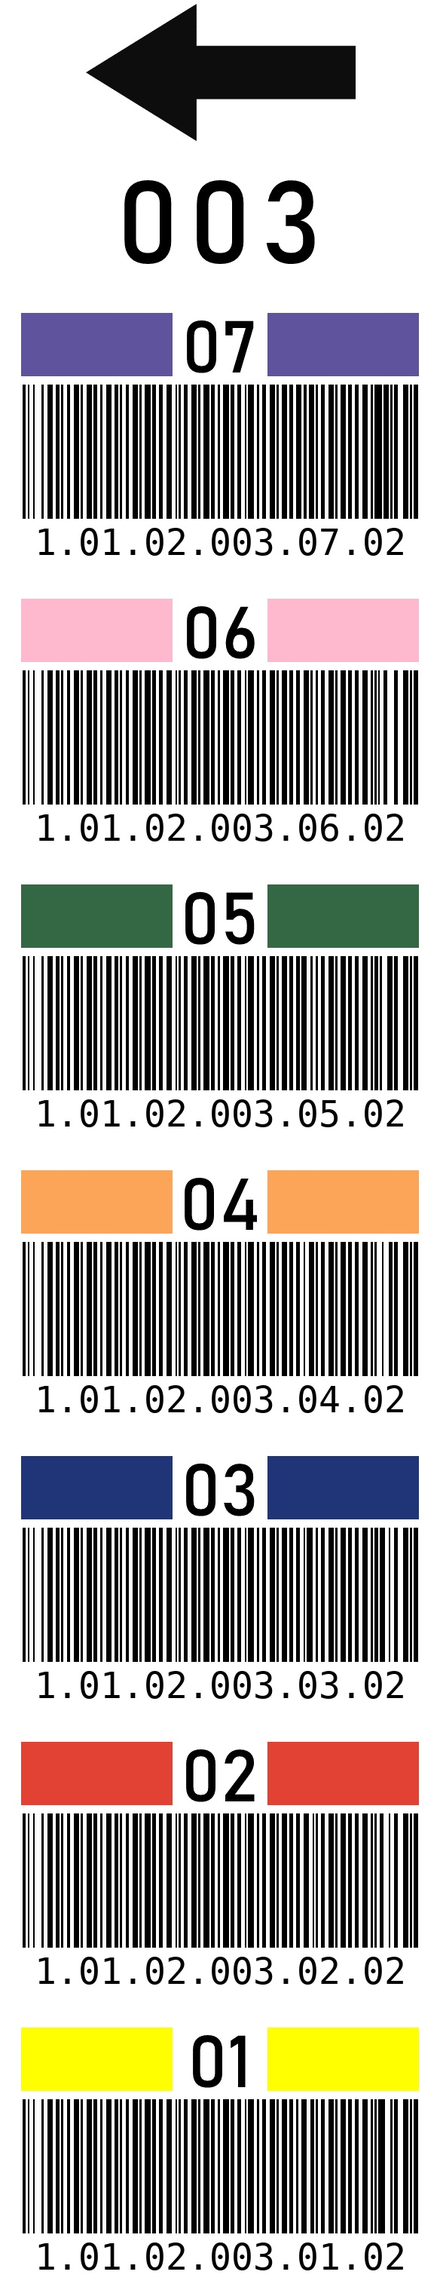
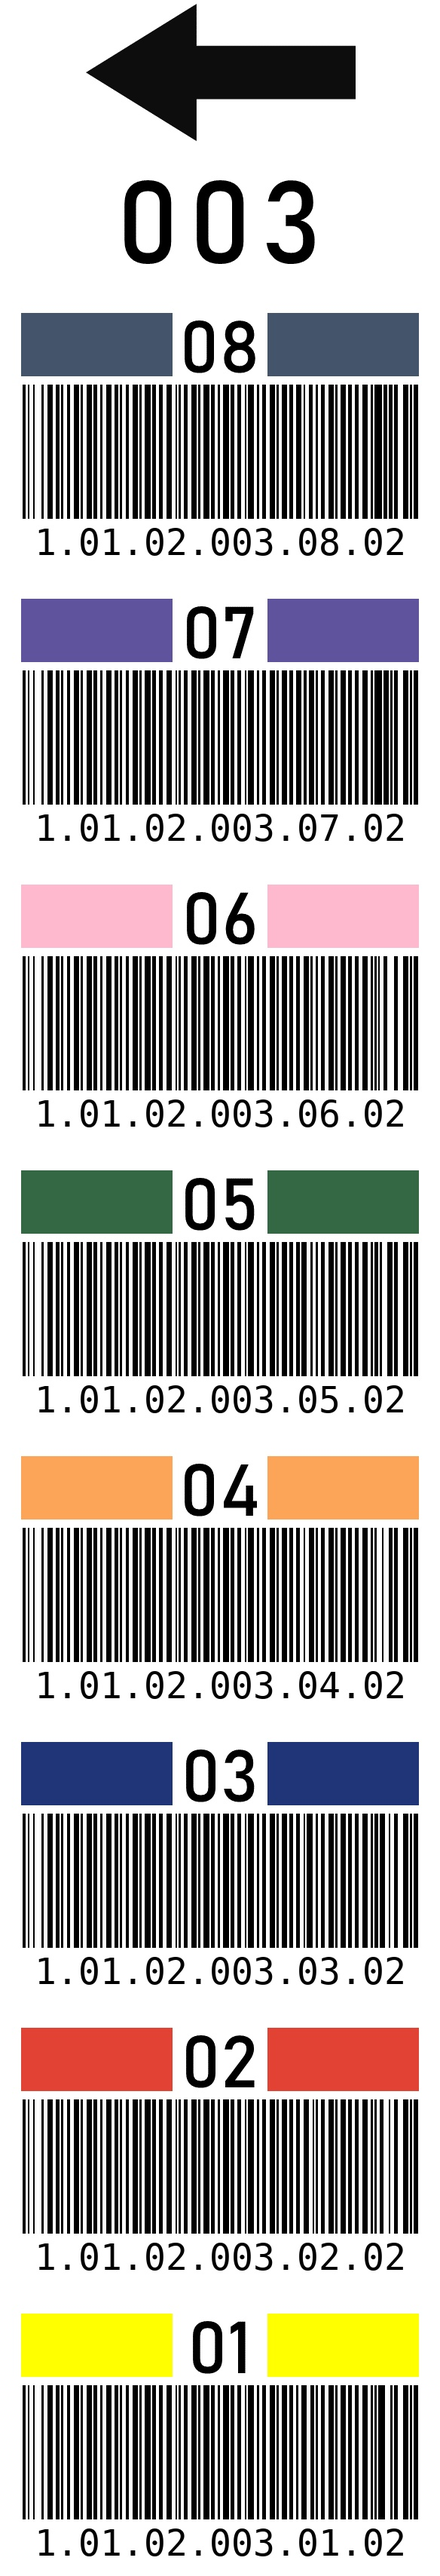
create isle stickers

diff --git a/src/app/sticker-merge-all.py b/src/app/sticker-merge-all.py
@@ -1,0 +1,81 @@
+import cv2
+from pathlib import Path
+from PIL import Image
+import barcode
+from barcode.writer import ImageWriter
+import numpy as np
+from os import listdir
+from os.path import isfile, join
+
+
+
+# Adds a "0" to a 2 digit number
+def addZero_twoDigits(check):
+    if check <= 9:
+        check = '0' + str(check)
+    else:
+        # Force to be string by adding ''
+        check = '' + str(check)
+    return check
+
+# Adds "00" to a 1 digit number or "0" to a 2 digit number
+def addZero_threeDigits(check):
+    if check <= 9:
+        check = '00' + str(check)
+    elif check <= 99:
+        check = '0' + str(check)
+    return check
+
+def mergeFiles(inputIsle,shelf):
+    # Path to where all the individual images are
+    path = 'C:/personal-git/aresta-barcode/src/app/images/sticker-single-done/'
+
+    # New file name
+    # TODO: Make it dynamic
+    inputIsleThreeDigits = addZero_threeDigits(inputIsle)
+    newFileName = "sticker-{}".format(inputIsleThreeDigits)
+
+    # Save new file to the path below 
+    saveToPath = "C:/personal-git/aresta-barcode/src/app/images/sticker-multiple-done"
+
+    # Search for all the files in directory
+    # FIXME: join is not working 
+    isleStickerImg = [f for f in listdir(path) if isfile(join(path, f))]
+
+    # list for all the images full path
+    allImgFullPath = []
+
+    for i in range(0,shelf):
+        inputIsleThreeDigits = addZero_threeDigits(inputIsle)
+        beforeIsle = isleStickerImg[i][0:16]
+        afterIsle = isleStickerImg[i][19:31]
+
+        isleGroup = beforeIsle+inputIsleThreeDigits+afterIsle
+        fullPath = join(path,isleGroup)
+        # print("fullPath: "+fullPath)
+
+        #Creates image object
+        toImg = cv2.imread(fullPath)
+        # Saves image object to list
+        allImgFullPath.append(toImg)
+
+        # Convers the list to array
+        allImgFullPath_array = np.array(allImgFullPath)
+
+        # Combines all the individual isle images to one image
+        fullImg = cv2.vconcat(allImgFullPath_array)
+
+        # Save the file to path
+        cv2.imwrite("{}/{}.jpeg".format(saveToPath,newFileName), fullImg)
+
+def createAll(isle, shelf):
+    for i in range(1, isle+1):
+        if (i % 2) == 0:
+            mergeFiles(i,shelf-1)
+        elif (i % 2) > 0:
+            mergeFiles(i,shelf)
+
+isle = 3
+shelf = 8
+
+createAll(isle, shelf)

diff --git a/src/app/sign-create-single.py b/src/app/sign-create-single.py
@@ -123,16 +123,9 @@ def createIsleImage(isle, shelf, allBarcodesPath):
     label5 = cv2.imread("C:/personal-git/aresta-barcode/src/app/images/sign-barcode-header/label-5.PNG")
     label6 = cv2.imread("C:/personal-git/aresta-barcode/src/app/images/sign-barcode-header/label-6.PNG")
     label7 = cv2.imread("C:/personal-git/aresta-barcode/src/app/images/sign-barcode-header/label-7.PNG")
+    label8 = cv2.imread("C:/personal-git/aresta-barcode/src/app/images/sign-barcode-header/label-8.PNG")
 
     # TODO: Dynamicaly generate the barcode
-    # allBarcodeImg = []
-
-    # for i in range(len(allBarcodesPath)):
-    #     barcodeImg = cv2.imread(allBarcodesPath[i])
-    #     allBarcodeImg.append(barcodeImg)
-
-    # allBarcodeImg_array = np.array(allBarcodeImg)
-    # fullImg = cv2.vconcat(createIsleLable(isle),allBarcodeImg_array)
 
     # Each barcode for the isle image
     i=0
@@ -143,9 +136,10 @@ def createIsleImage(isle, shelf, allBarcodesPath):
     barcodeImg5 = cv2.imread(allBarcodesPath[i+4])
     barcodeImg6 = cv2.imread(allBarcodesPath[i+5])
     barcodeImg7 = cv2.imread(allBarcodesPath[i+6])
+    barcodeImg8 = cv2.imread(allBarcodesPath[i+7])
 
     # Generate Isle Image File
-    fullImg = cv2.vconcat([createIsleLable(isle), label7, barcodeImg7, label6, barcodeImg6, label5, barcodeImg5, label4, barcodeImg4, label3, barcodeImg3, label2, barcodeImg2, label1, barcodeImg1])
+    fullImg = cv2.vconcat([createIsleLable(isle), label8, barcodeImg8, label7, barcodeImg7, label6, barcodeImg6, label5, barcodeImg5, label4, barcodeImg4, label3, barcodeImg3, label2, barcodeImg2, label1, barcodeImg1])
 
     # Save file
     isleThreeDigits = addZero_threeDigits(isle)
@@ -163,7 +157,7 @@ state = 1
 city = 1
 region = 2
 isle = 10
-shelf = 7
+shelf = 8
 product = 2
 
 # ===============================================================

diff --git a/src/app/sticker-create-single.py b/src/app/sticker-create-single.py
@@ -38,7 +38,8 @@ def getDigit(index):
 
 def getArrow(index):
     print("Runnig getArrow")
-    path ="C:/personal-git/aresta-barcode/src/app/images/sticker-arrow-up/sticker-arrow-up-{}.PNG".format(index)
+    # path = "C:/personal-git/aresta-barcode/src/app/images/sticker-arrow-up/sticker-arrow-up-{}.PNG".format(index)
+    path = "C:/personal-git/aresta-barcode/src/app/images/sticker-arrow-up/sticker-arrow-up-black.PNG"
     arrow = cv2.imread(path)
     return arrow
 
@@ -104,10 +105,31 @@ def createSticker(state, city, region, isle, shelf, product):
 
 state = 1
 city = 1
-region = 2 
-isle = 1 
-shelf = 2 
+region = 2
+isle = 3 #Give Max Value
+shelf = 8 #Give Max Value
 product = 2
 
-createSticker(state, city, region, isle, shelf, product)
+# isleMax = 9
+# shelfMax = 9
+
+for i in range(1, isle+1):
+    isleThreeDigits = addZero_threeDigits(i)
+    if (i % 2) == 0:
+        print("Is even - Top 7")
+        for j in range(1, shelf):
+            shelfThreeDigits = addZero_twoDigits(j)
+            stickerInfo = isleThreeDigits+"."+shelfThreeDigits
+            createSticker(state, city, region, i, j, product)
+            print(stickerInfo)
+    if (i % 2) > 0:
+        print("Is odd - Top 8")
+        for j in range(1, shelf+1):
+            shelfThreeDigits = addZero_twoDigits(j)
+            stickerInfo = isleThreeDigits+"."+shelfThreeDigits
+            # create level 8
+            createSticker(state, city, region, i, j, product)
+            print(stickerInfo)
+
+
 
